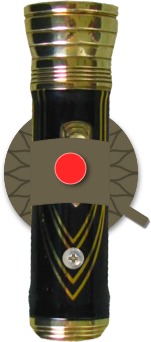
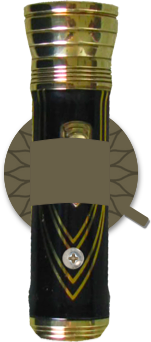
lock and key

Changed region(s): [[0.3444, 0.4386, 0.6093, 0.5556]]

diff --git a/ACMSampler.html b/ACMSampler.html
@@ -7,46 +7,60 @@
 
 <!-- PAGE COEUR -->
 <template name="coeur">
-  <div class="overlay {{lightStatus}}"></div>
-  <div class="torch-pane pane">
-    <div id="light-cone-img-container" class="torch-{{lightStatus}}">
-      <img id="light-cone-img" class="direction-{{torchDirection}}" src="/light-cone.png">
-    </div>
-    <div id="torch-img-container">
-      <img id="torch-img" class="direction-{{torchDirection}}" src="/torch-group-image.png">
-    </div>
-    <div id="turn-buttons">
-      <button class="turn-torch" id="turn-left">&larr;</button>
-      <button class="turn-torch" id="turn-right">&rarr;</button>
-    </div>
-    <button id="light-button">light please</button>
-  </div>
-  <div class="floor-pane pane">
-    {{#each directions}}
-      <div id="direction-{{this.name}}-container" class="direction-container" style="position:absolute; text-align:center;">
-        <!-- on appelle le template ci dessous -->
-        {{>direction name=this.name index=this.index}}
+  <div id="coeur-template">
+    <div class="overlay {{lightStatus}}"></div>
+    <div class="torch-pane pane">
+      <div id="light-cone-img-container" class="torch-{{lightStatus}}">
+        <img id="light-cone-img" class="direction-{{torchDirection}}" src="/light-cone.png">
       </div>
-    {{/each}}
-    <div class="coeur-container" style="text-align:center; position:absolute; top:{{coeurProps.y0}}px; left: {{coeurProps.x0}}px">
-      <h3>COEUR</h3>
-      {{#if hasWon}}
-        WINNER !
-        <div style="width: 300px; display: block; margin: auto;">
-          <img style="width: 100%; " class="coeur-image" src="{{coeurImage}}">
+      <div id="torch-img-container">
+        <img id="torch-img" class="direction-{{torchDirection}}" src="/torch-group-image.png">
+      </div>
+      {{#if hasLock}}
+        <div id="lock-container">
+          <img id="lock" src="/lock-img.png">
         </div>
       {{/if}}
+      {{#if hasKey}}
+        <div id="key-indicator">
+          <img id="key" src="/key.png">
+        </div>
+      {{/if}}
+      <div id="turn-buttons">
+        <button class="turn-torch" id="turn-left">&larr;</button>
+        <button class="turn-torch" id="turn-right">&rarr;</button>
+      </div>
+      <button id="light-button"></button>
+    </div>
+    <div class="floor-pane pane">
+      {{#each directions}}
+        <div id="direction-{{this.name}}-container" class="direction-container" style="position:absolute; text-align:center;">
+          <!-- on appelle le template ci dessous -->
+          {{>direction name=this.name index=this.index}}
+        </div>
+      {{/each}}
+      <div class="coeur-container" style="text-align:center; position:absolute; top:{{coeurProps.y0}}px; left: {{coeurProps.x0}}px">
+        {{#if hasWon}}
+          WINNER !
+          <div style="display: block; margin: auto;">
+            <img style="width: 100%; " class="coeur-image" src="{{coeurImage}}">
+          </div>
+        {{/if}}
+      </div>
+    </div>
+    <div id="torch-base-container">
+      <img id="torch-base" src="/torch-base.png">
     </div>
   </div>
 </template>
 
 <template name="direction">
-  <div class="direction-name" style="position:absolute;color:white">{{name}}</div>
+<!--   <div class="direction-name" style="position:absolute;color:white">{{name}}</div> -->
   <div class="direction-number" style="display:none;">{{touchOccurences}}</div>
   <!-- <div class="direction-son-courant">{{sonCourant}}</div> -->
   <div class="direction-son-htmlText" style="position: absolute;">{{{sonHtmlText}}}</div>
-  <div style="width: 300px; display: block; margin-left: auto; margin-right: auto;">
-    <img style="width: 100%;" class="direction-son-image" src="{{sonImage}}">
+  <div style="width: 100%;height: 100%;">
+    <img class="direction-son-image" src="{{sonImage}}">
   </div>
 </template>
 
@@ -54,6 +68,17 @@
 <template name="vers">
   {{directionName}}
   <div id=blackscreen-{{directionName}} class="blackscreen {{lightStatus}} direction-{{torchDirection}}"></div>
+  {{#if isNorth}}
+    {{#if hasKey}}
+      <div id="key-indicator">
+        <img id="key" src="/key.png">
+      </div>
+    {{else}}
+      <div id="key-container">
+        <img id="key" src="/key.png">
+      </div>
+    {{/if}}
+  {{/if}}
   {{#each sons}}
     <div class="son-container" style="position:absolute; text-align:center;">
       <!-- on appelle le template ci dessous -->

diff --git a/ACMSampler.js b/ACMSampler.js
@@ -149,10 +149,10 @@ if (Meteor.isServer) {
     Torch.insert({
       lightOn: false,
       torchDirection: 0,
+      hasLock: true,
+      hasKey: false,
     });
   });
-
-
 }
 
 // Logique des pages
@@ -205,30 +205,53 @@ if (Meteor.isClient) {
     'lightStatus': () => {
       return Torch.findOne().lightOn ? 'lightOn' : 'lightOff';
     },
+    'hasKey': () => {
+      return Torch.findOne().hasKey;
+    },
+    'hasLock': () => {
+      return Torch.findOne().hasLock;
+    },
   });
 
   Template.coeur.events({
     'click #turn-left': function(e, t) {
       let torchDirection = Torch.findOne().torchDirection;
-      if (torchDirection === 0) {
-        Torch.set('torchDirection', 7);
-      }else {
-        Torch.set('torchDirection', torchDirection - 1);
+      let hasLock = Torch.findOne().hasLock;
+      if (!hasLock) {
+        if (torchDirection === 0) {
+          Torch.set('torchDirection', 7);
+        }else {
+          Torch.set('torchDirection', torchDirection - 1);
+        }
+      } else {
+        alert('Quelque chose semble empêcher la torche de tourner...');
       }
     },
     'click #turn-right': function(e, t) {
       let torchDirection = Torch.findOne().torchDirection;
-      if (torchDirection === 7) {
-        Torch.set('torchDirection', 0);
+      let hasLock = Torch.findOne().hasLock;
+      if (!hasLock) {
+        if (torchDirection === 7) {
+          Torch.set('torchDirection', 0);
+        } else {
+          Torch.set('torchDirection', torchDirection + 1);
+        }
       } else {
-        Torch.set('torchDirection', torchDirection + 1);
+        alert('Quelque chose semble empêcher la torche de tourner...');
       }
     },
     'click #light-button': function(e, t) {
       let lightStatus = Torch.findOne().lightOn;
       Torch.set('lightOn', !lightStatus);
     },
-
+    'click #lock': function(e, t) {
+      let hasKey = Torch.findOne().hasKey;
+      if (hasKey) {
+        Torch.set('hasLock', false);
+      } else {
+        alert('Ce cadenas semble bien fermé...');
+      }
+    },
   });
 
 
@@ -416,6 +439,12 @@ if (Meteor.isClient) {
     'lightStatus': () => {
       return Torch.findOne().lightOn ? 'lightOn' : 'lightOff';
     },
+    'isNorth': () => {
+      return Template.instance().directionName === 'nord';
+    },
+    'hasKey': () => {
+      return Torch.findOne().hasKey;
+    },
   });
 
 
@@ -447,6 +476,12 @@ if (Meteor.isClient) {
       }
     });
   };
+
+  Template.vers.events({
+    'click #key': function(e, t) {
+      Torch.set('hasKey', true);
+    },
+  });
 
   //donnees et events des directions
   Template.sonTemplate.events({

diff --git a/ACMSampler.css b/ACMSampler.css
@@ -1,7 +1,7 @@
 /* CSS declarations go here */
 body {
   margin:0;
-  background-color: #FF8080;
+  background-color: #FFDEAA;
 }
 
 .overlay {
@@ -14,6 +14,7 @@ body {
 }
 .blackscreen {
   position: absolute;
+  top:0;
   z-index: 100;
   background-color: black;
   width: 100vw;
@@ -32,9 +33,21 @@ body {
   border:1px solid #eee;
 }
 
+.floor-pane {
+  z-index: 9;
+}
+
 .torch-pane {
   position: absolute;
   z-index:10;
+}
+
+#coeur-template {
+  background-image: url('/background-cave.png');
+  background-size: cover;
+  height: 100vh;
+  width: 100vw;
+  overflow: hidden;
 }
 
 #light-cone-img-container {
@@ -66,6 +79,44 @@ body {
   width: 100%;
 }
 
+#lock-container {
+  position: absolute;
+  left:53vw;
+  top:53vh;
+  width: 8vw;
+}
+#lock {
+  width: 100%;
+}
+
+#key-indicator {
+  position: absolute;
+  right:0;
+  top:0;
+  width: 20px;
+  margin:10px;
+}
+
+#key-container {
+  width: 50px;
+}
+
+#key {
+  width: 100%;
+}
+
+#torch-base-container {
+  position: absolute;
+  top: 0;
+  height: 100vh;
+  left: calc(50vw - 50vh);
+  z-index: 0;
+}
+
+#torch-base {
+  height: 100%;
+}
+
 #turn-buttons {
   position: absolute;
   bottom: 10vh;
@@ -85,10 +136,10 @@ body {
 
 #light-button {
   position: absolute;
-  top:calc(50vh - 25px);
-  left:calc(50vw - 25px);
-  width: 50px;
-  height: 50px;
+  top:calc(50vh - 10px);
+  left:calc(50vw - 10px);
+  width: 20px;
+  height: 20px;
   border-radius: 50%;
   background-color: red;
 }
@@ -144,13 +195,21 @@ body {
   display: none;
 }
 
+.direction-son-image {
+  width: 100%;
+  height: 100%;
+  object-fit: cover;
+}
+
 
 .direction-container {
   position: absolute;
   width: 33.33vw;
   height: 33.33vh;
   overflow: hidden;
-  border:1px solid grey;
+  border: 5px solid white;
+  background: rgba(208, 208, 208, 0.6);
+  transform: rotate(10deg);
 }
 #direction-nord-container {
   top:0 !important;
